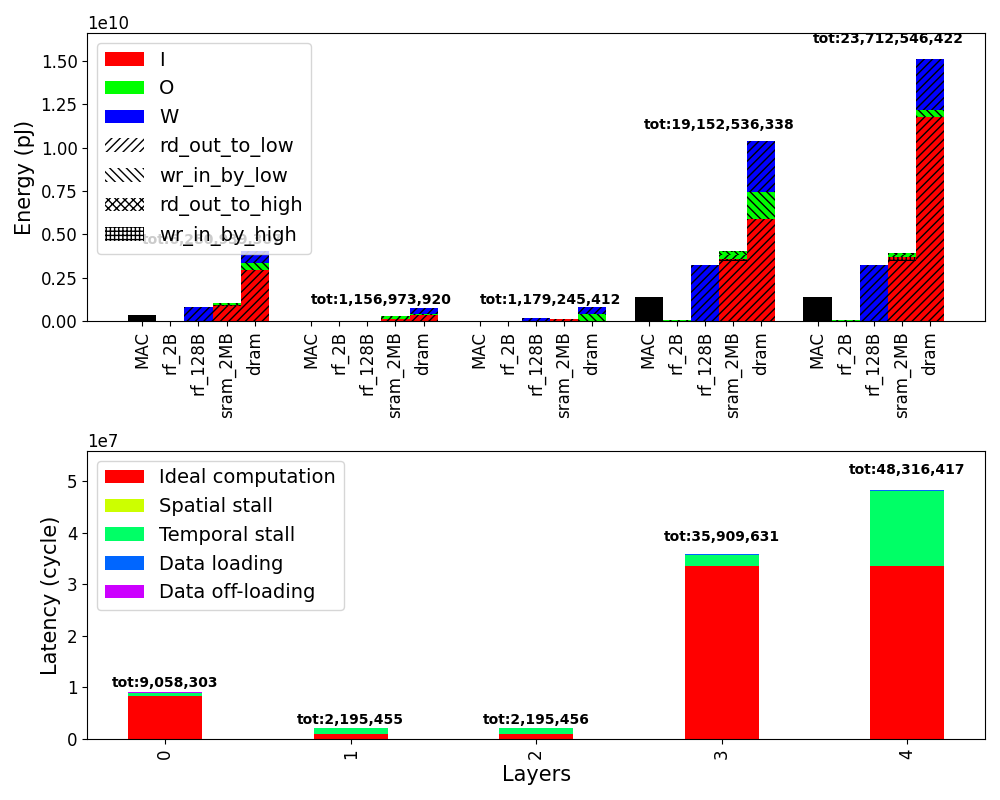
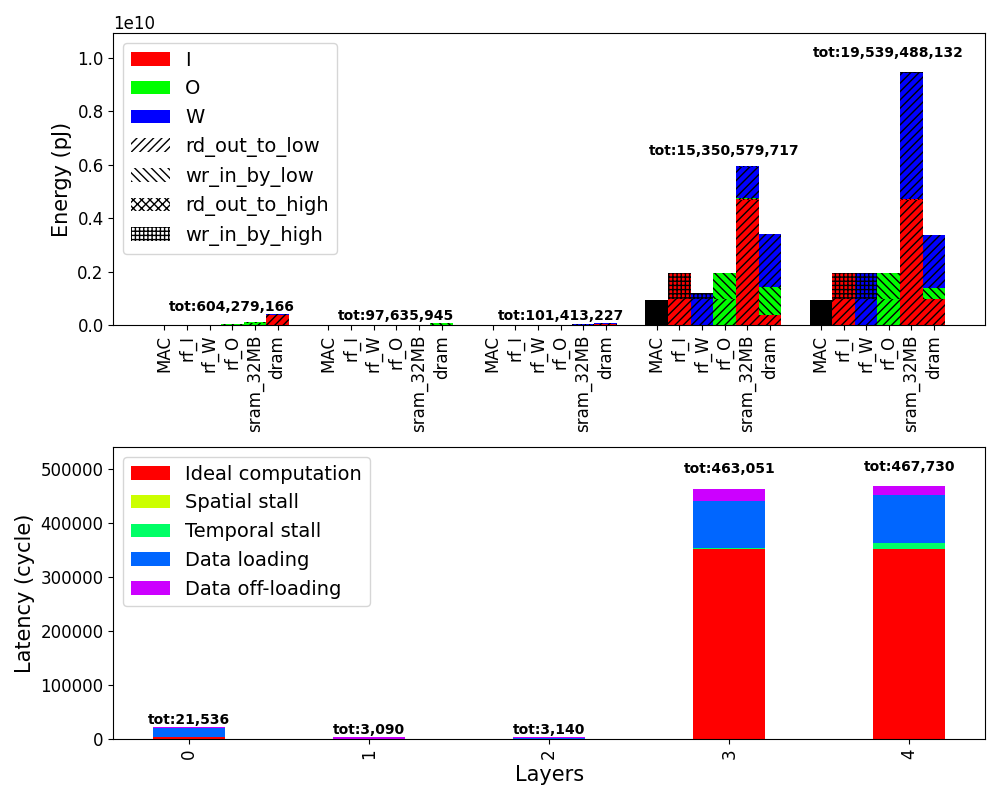
New generic HW architecture

diff --git a/main.py b/main.py
@@ -7,15 +7,15 @@ from zigzag.visualization.results.plot_cme import (
 )
 
 from export_onnx import export_transformer_to_onnx
-from src.config import GPT3_175B, LLAMA_13B, LLAMA_1_7B, W4A16, W4A8, W8A8
+from src.config import GPT3_175B, LLAMA_1_7B, W4A16, W4A8, W8A8
 
 model = LLAMA_1_7B
 model.seq_len = model.seq_len // 4
 quant = W4A16
 output_dir = f"/outputs/{datetime.now()}"
-workload_path = f"outputs/{model.name}_{quant.name}.onnx"
-accelerator_path = "inputs/hardware/tpu_like.yaml"
-mapping_path = "inputs/mapping/default.yaml"
+workload_path = f"outputs/{model.name}_{quant.name}_L={model.seq_len}.onnx"
+accelerator_path = "inputs/hardware/generic_array.yaml"
+mapping_path = "inputs/mapping/empty.yaml"
 pickle_filename = "outputs/TPU-cmes.pickle"
 RE_RUN = True
 
@@ -28,7 +28,7 @@ if RE_RUN:
         mapping=mapping_path,
         opt="energy",
         pickle_filename=pickle_filename,
-        nb_spatial_mappings_generated=1,
+        nb_spatial_mappings_generated=6,
     )
     print(f"Total network energy = {energy:.2e} pJ")
     print(f"Total network latency = {latency:.2e} cycles")

diff --git a/experiments.py b/experiments.py
@@ -10,11 +10,11 @@ from zigzag.visualization.results.plot_cme import (
 from export_onnx import export_transformer_to_onnx
 from src.config import ALL_MODELS, LLAMA_1_7B, W4A16, W4A8, W8A8, LLMConfig
 
-models = [LLAMA_1_7B]  ##ALL_MODELS
-quants = [W8A8, W4A16, W4A8]
-accelerators = ["tpu_like"]  # , "tpu_big_sram"]
+models = ALL_MODELS
+quants = [W8A8, W4A16]  # , W4A8]
+accelerators = ["generic_array"]  # , "tpu_big_sram"]
 
-mapping_path = "inputs/mapping/default.yaml"
+mapping_path = "inputs/mapping/output_st_256.yaml"
 
 layers_to_plot = ["key_proj", "mul_qk_t", "mul_logits", "feedforward_expand", "feedforward_contract"]
 
@@ -28,7 +28,7 @@ def get_post_simulation_factor(cfg: LLMConfig, layer: str):
     the results for the given layer have to be multiplied in order to come to the result for the full model"""
     if "_proj" in layer:
         # K, Q, V and output projection
-        return 4 * cfg.num_head * cfg.num_layer
+        return 4 * cfg.num_layer
     elif "mul_" in layer:
         return cfg.num_head * cfg.num_layer
     elif "feedforward_" in layer:

diff --git a/src/config.py b/src/config.py
@@ -32,12 +32,12 @@ class LLMConfig:
         can then be multiplied to get the actual energy/latency values"""
         return LLMConfig(
             batch_size=self.batch_size,
-            seq_len=self.seq_len,
+            seq_len=self.seq_len // 2,  # Prefill half the context window
             embedding_dim=self.embedding_dim,
             dim_ff=self.dim_ff,
             num_head=1,
             num_layer=1,
-            head_size=self.head_size,  # Keep original so it doesn't get re-computed
+            # Recompute head size, consider 1 big MatMu for all heads simultaneously
             vocab_size=self.vocab_size,
             name=self.name,
         )
@@ -85,7 +85,7 @@ LLAMA_1_30B = LLMConfig(
     embedding_dim=6_656,
     dim_ff=17_920,
     num_head=52,
-    num_layer=52,  # ! or 60?
+    num_layer=60,
     vocab_size=32_000,
     name="LLAMA_1_30B",
 )
@@ -196,7 +196,7 @@ ALL_MODELS = [
     # LLAMA_1_13B,
     LLAMA_1_30B,
     # LLAMA_2_7B,
-    LLAMA_2_13B,
+    # LLAMA_2_13B,
     OPT_125M,
     # OPT_1_3B,
     # OPT_2_7B,
